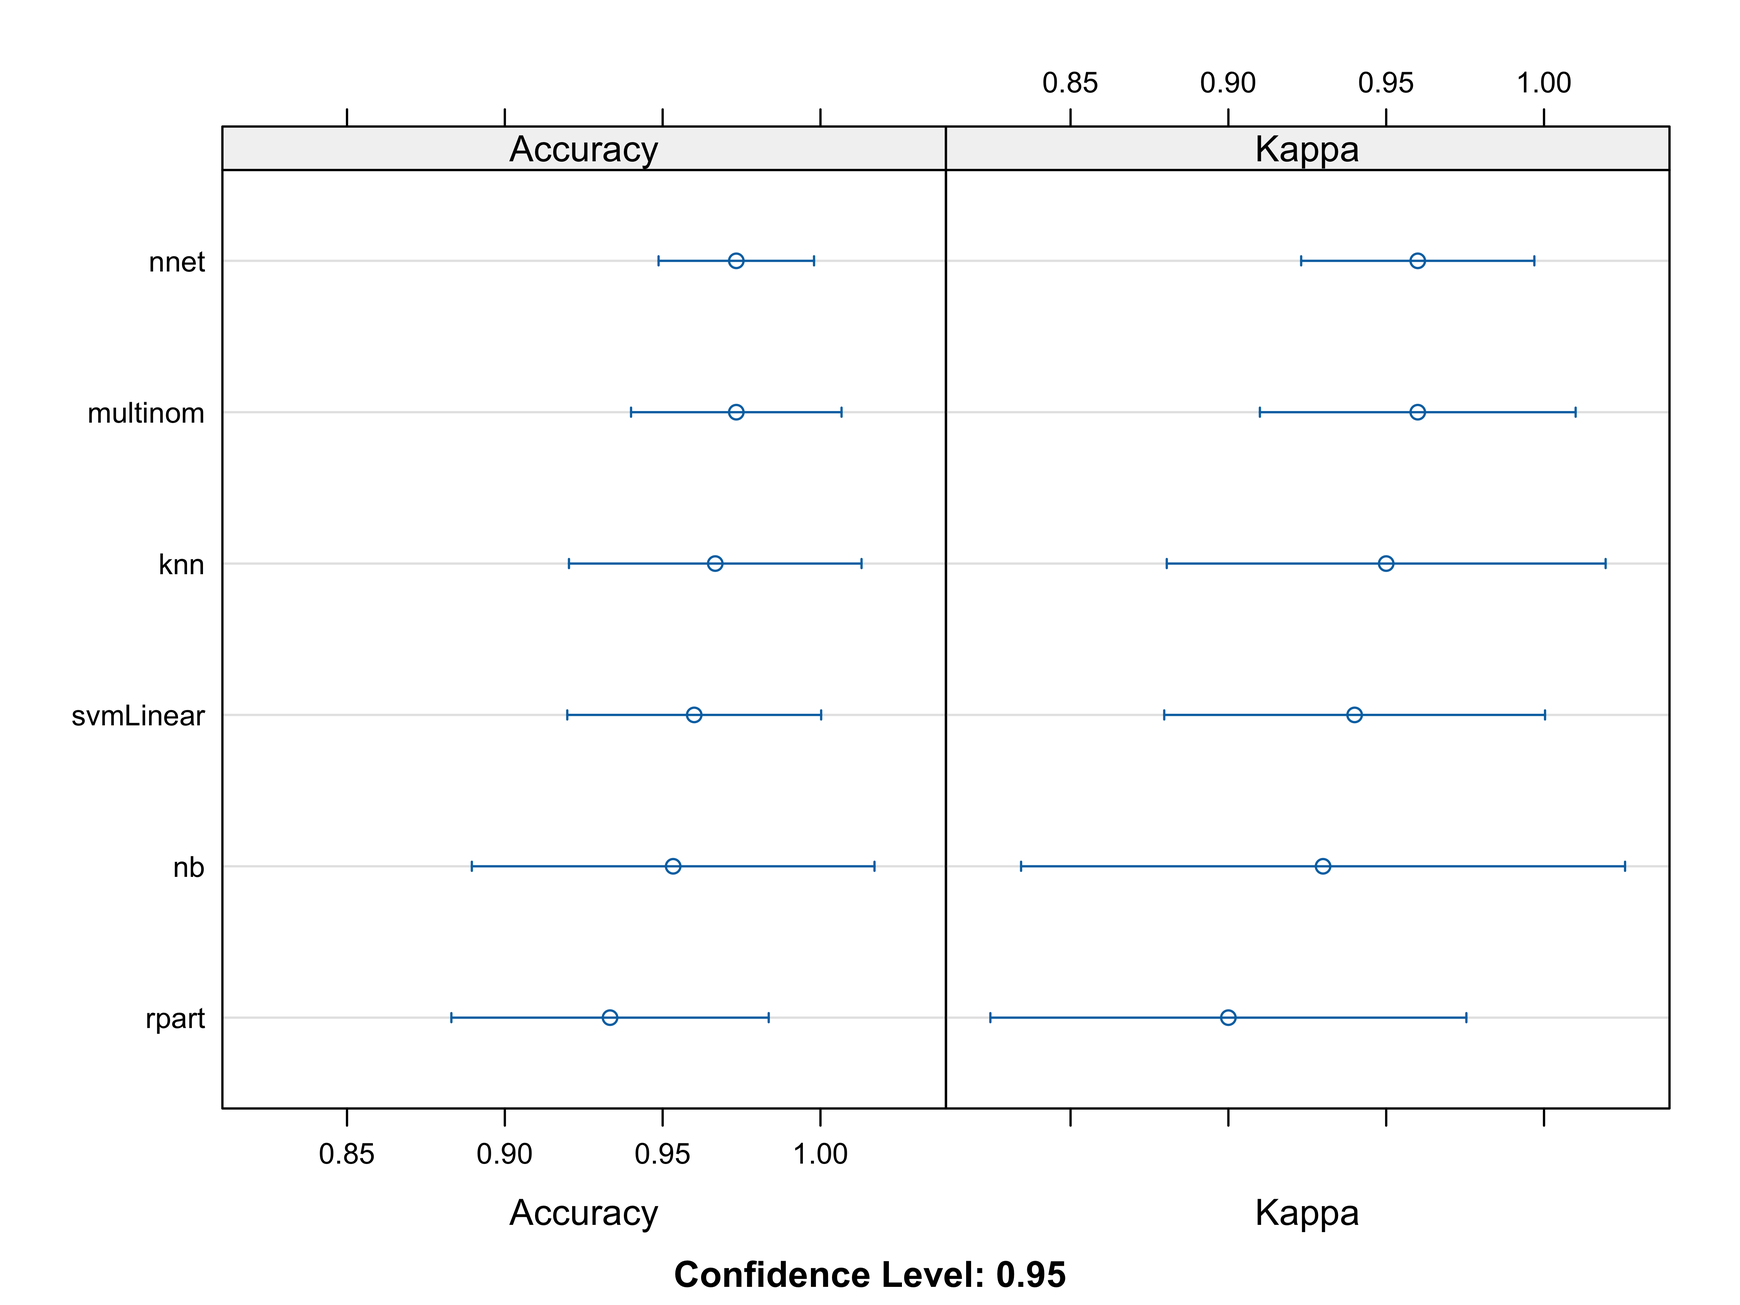
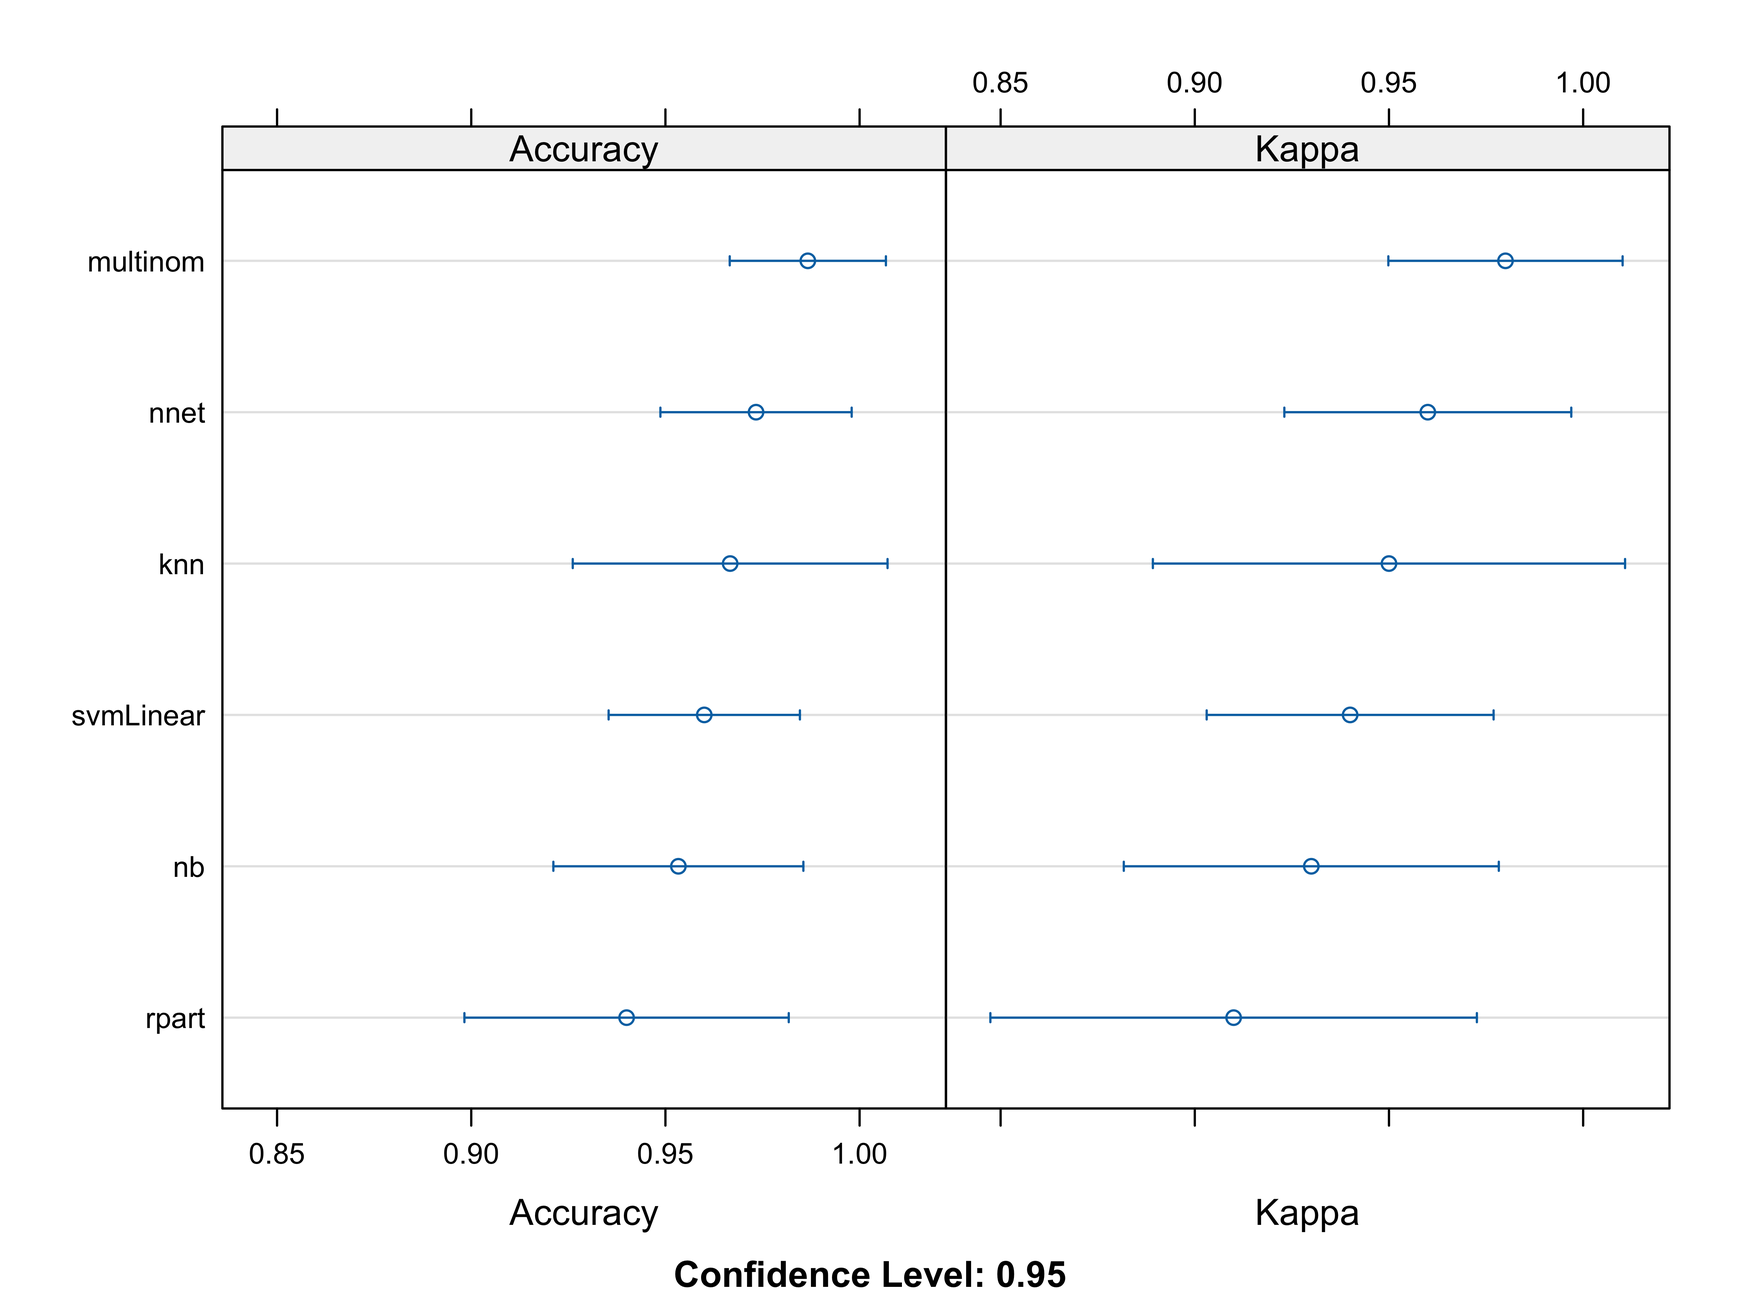
Render

diff --git a/docs/iris.html b/docs/iris.html
@@ -140,7 +140,7 @@ pre > code.sourceCode > span > a:first-child::before { text-decoration: underlin
 
 <section id="introduction" class="level2">
 <h2 class="anchored" data-anchor-id="introduction">Introduction</h2>
-<p>TBA</p>
+<p>We use the <a href="https://www.kaggle.com/datasets/uciml/iris#">Iris Species data set</a> to train and evaluate different machine learning models. This labled data set contains 150 observations of iris flowers with the following features: <code>Sepal.Length</code>, <code>Sepal.Width</code>, <code>Petal.Length</code>, and <code>Petal.Width</code>.</p>
 </section>
 <section id="load-libraries" class="level2">
 <h2 class="anchored" data-anchor-id="load-libraries">Load libraries</h2>
@@ -154,47 +154,34 @@ pre > code.sourceCode > span > a:first-child::before { text-decoration: underlin
 <section id="load-iris-data-set" class="level2">
 <h2 class="anchored" data-anchor-id="load-iris-data-set">Load iris data set</h2>
 <div class="cell">
-<div class="sourceCode cell-code" id="cb2"><pre class="sourceCode r code-with-copy"><code class="sourceCode r"><span id="cb2-1"><a href="#cb2-1" aria-hidden="true" tabindex="-1"></a><span class="fu">data</span>(iris)</span>
-<span id="cb2-2"><a href="#cb2-2" aria-hidden="true" tabindex="-1"></a><span class="fu">head</span>(iris)</span></code><button title="Copy to Clipboard" class="code-copy-button"><i class="bi"></i></button></pre></div>
-<div class="cell-output cell-output-stdout">
-<pre><code>  Sepal.Length Sepal.Width Petal.Length Petal.Width Species
-1          5.1         3.5          1.4         0.2  setosa
-2          4.9         3.0          1.4         0.2  setosa
-3          4.7         3.2          1.3         0.2  setosa
-4          4.6         3.1          1.5         0.2  setosa
-5          5.0         3.6          1.4         0.2  setosa
-6          5.4         3.9          1.7         0.4  setosa</code></pre>
-</div>
+<div class="sourceCode cell-code" id="cb2"><pre class="sourceCode r code-with-copy"><code class="sourceCode r"><span id="cb2-1"><a href="#cb2-1" aria-hidden="true" tabindex="-1"></a><span class="fu">data</span>(iris)</span></code><button title="Copy to Clipboard" class="code-copy-button"><i class="bi"></i></button></pre></div>
 </div>
 </section>
 <section id="visualize-features" class="level2">
 <h2 class="anchored" data-anchor-id="visualize-features">Visualize features</h2>
 <div class="cell">
-<div class="sourceCode cell-code" id="cb4"><pre class="sourceCode r code-with-copy"><code class="sourceCode r"><span id="cb4-1"><a href="#cb4-1" aria-hidden="true" tabindex="-1"></a><span class="fu">featurePlot</span>(</span>
-<span id="cb4-2"><a href="#cb4-2" aria-hidden="true" tabindex="-1"></a>  <span class="at">x =</span> iris[, <span class="dv">1</span><span class="sc">:</span><span class="dv">4</span>], </span>
-<span id="cb4-3"><a href="#cb4-3" aria-hidden="true" tabindex="-1"></a>  <span class="at">y =</span> iris<span class="sc">$</span>Species, </span>
-<span id="cb4-4"><a href="#cb4-4" aria-hidden="true" tabindex="-1"></a>  <span class="at">plot =</span> <span class="st">"pairs"</span>,</span>
-<span id="cb4-5"><a href="#cb4-5" aria-hidden="true" tabindex="-1"></a>  <span class="do">## Add a key at the top</span></span>
-<span id="cb4-6"><a href="#cb4-6" aria-hidden="true" tabindex="-1"></a>  <span class="at">auto.key =</span> <span class="fu">list</span>(<span class="at">columns =</span> <span class="dv">3</span>))</span></code><button title="Copy to Clipboard" class="code-copy-button"><i class="bi"></i></button></pre></div>
+<div class="sourceCode cell-code" id="cb3"><pre class="sourceCode r code-with-copy"><code class="sourceCode r"><span id="cb3-1"><a href="#cb3-1" aria-hidden="true" tabindex="-1"></a><span class="fu">featurePlot</span>(</span>
+<span id="cb3-2"><a href="#cb3-2" aria-hidden="true" tabindex="-1"></a>  <span class="at">x =</span> iris[, <span class="dv">1</span><span class="sc">:</span><span class="dv">4</span>], </span>
+<span id="cb3-3"><a href="#cb3-3" aria-hidden="true" tabindex="-1"></a>  <span class="at">y =</span> iris<span class="sc">$</span>Species, </span>
+<span id="cb3-4"><a href="#cb3-4" aria-hidden="true" tabindex="-1"></a>  <span class="at">plot =</span> <span class="st">"pairs"</span>,</span>
+<span id="cb3-5"><a href="#cb3-5" aria-hidden="true" tabindex="-1"></a>  <span class="do">## Add a key at the top</span></span>
+<span id="cb3-6"><a href="#cb3-6" aria-hidden="true" tabindex="-1"></a>  <span class="at">auto.key =</span> <span class="fu">list</span>(<span class="at">columns =</span> <span class="dv">3</span>))</span></code><button title="Copy to Clipboard" class="code-copy-button"><i class="bi"></i></button></pre></div>
 <div class="cell-output-display">
 <p><img src="iris_files/figure-html/unnamed-chunk-3-1.png" class="img-fluid" width="2400"></p>
 </div>
 </div>
 <div class="cell">
-<div class="sourceCode cell-code" id="cb5"><pre class="sourceCode r code-with-copy"><code class="sourceCode r"><span id="cb5-1"><a href="#cb5-1" aria-hidden="true" tabindex="-1"></a><span class="fu">featurePlot</span>(</span>
-<span id="cb5-2"><a href="#cb5-2" aria-hidden="true" tabindex="-1"></a>  </span>
-<span id="cb5-3"><a href="#cb5-3" aria-hidden="true" tabindex="-1"></a>  <span class="at">x =</span> iris[, <span class="dv">1</span><span class="sc">:</span><span class="dv">4</span>], </span>
-<span id="cb5-4"><a href="#cb5-4" aria-hidden="true" tabindex="-1"></a>  <span class="at">y =</span> iris<span class="sc">$</span>Species,</span>
-<span id="cb5-5"><a href="#cb5-5" aria-hidden="true" tabindex="-1"></a>  <span class="at">plot =</span> <span class="st">"density"</span>, </span>
-<span id="cb5-6"><a href="#cb5-6" aria-hidden="true" tabindex="-1"></a>  <span class="do">## Pass in options to xyplot() to </span></span>
-<span id="cb5-7"><a href="#cb5-7" aria-hidden="true" tabindex="-1"></a>  <span class="do">## make it prettier</span></span>
-<span id="cb5-8"><a href="#cb5-8" aria-hidden="true" tabindex="-1"></a>  <span class="at">scales =</span> <span class="fu">list</span>(</span>
-<span id="cb5-9"><a href="#cb5-9" aria-hidden="true" tabindex="-1"></a>    <span class="at">x =</span> <span class="fu">list</span>(<span class="at">relation=</span><span class="st">"free"</span>), </span>
-<span id="cb5-10"><a href="#cb5-10" aria-hidden="true" tabindex="-1"></a>    <span class="at">y =</span> <span class="fu">list</span>(<span class="at">relation=</span><span class="st">"free"</span>)), </span>
-<span id="cb5-11"><a href="#cb5-11" aria-hidden="true" tabindex="-1"></a>  <span class="at">adjust =</span> <span class="fl">1.5</span>, </span>
-<span id="cb5-12"><a href="#cb5-12" aria-hidden="true" tabindex="-1"></a>  <span class="at">pch =</span> <span class="st">"|"</span>, </span>
-<span id="cb5-13"><a href="#cb5-13" aria-hidden="true" tabindex="-1"></a>  <span class="at">layout =</span> <span class="fu">c</span>(<span class="dv">4</span>, <span class="dv">1</span>), </span>
-<span id="cb5-14"><a href="#cb5-14" aria-hidden="true" tabindex="-1"></a>  <span class="at">auto.key =</span> <span class="fu">list</span>(<span class="at">columns =</span> <span class="dv">3</span>))</span></code><button title="Copy to Clipboard" class="code-copy-button"><i class="bi"></i></button></pre></div>
+<div class="sourceCode cell-code" id="cb4"><pre class="sourceCode r code-with-copy"><code class="sourceCode r"><span id="cb4-1"><a href="#cb4-1" aria-hidden="true" tabindex="-1"></a><span class="fu">featurePlot</span>(</span>
+<span id="cb4-2"><a href="#cb4-2" aria-hidden="true" tabindex="-1"></a>  <span class="at">x =</span> iris[, <span class="dv">1</span><span class="sc">:</span><span class="dv">4</span>], </span>
+<span id="cb4-3"><a href="#cb4-3" aria-hidden="true" tabindex="-1"></a>  <span class="at">y =</span> iris<span class="sc">$</span>Species,</span>
+<span id="cb4-4"><a href="#cb4-4" aria-hidden="true" tabindex="-1"></a>  <span class="at">plot =</span> <span class="st">"density"</span>, </span>
+<span id="cb4-5"><a href="#cb4-5" aria-hidden="true" tabindex="-1"></a>  <span class="at">scales =</span> <span class="fu">list</span>(</span>
+<span id="cb4-6"><a href="#cb4-6" aria-hidden="true" tabindex="-1"></a>    <span class="at">x =</span> <span class="fu">list</span>(<span class="at">relation=</span><span class="st">"free"</span>), </span>
+<span id="cb4-7"><a href="#cb4-7" aria-hidden="true" tabindex="-1"></a>    <span class="at">y =</span> <span class="fu">list</span>(<span class="at">relation=</span><span class="st">"free"</span>)), </span>
+<span id="cb4-8"><a href="#cb4-8" aria-hidden="true" tabindex="-1"></a>  <span class="at">adjust =</span> <span class="fl">1.5</span>, </span>
+<span id="cb4-9"><a href="#cb4-9" aria-hidden="true" tabindex="-1"></a>  <span class="at">pch =</span> <span class="st">"|"</span>, </span>
+<span id="cb4-10"><a href="#cb4-10" aria-hidden="true" tabindex="-1"></a>  <span class="at">layout =</span> <span class="fu">c</span>(<span class="dv">4</span>, <span class="dv">1</span>), </span>
+<span id="cb4-11"><a href="#cb4-11" aria-hidden="true" tabindex="-1"></a>  <span class="at">auto.key =</span> <span class="fu">list</span>(<span class="at">columns =</span> <span class="dv">3</span>))</span></code><button title="Copy to Clipboard" class="code-copy-button"><i class="bi"></i></button></pre></div>
 <div class="cell-output-display">
 <p><img src="iris_files/figure-html/unnamed-chunk-4-1.png" class="img-fluid" width="2400"></p>
 </div>
@@ -205,25 +192,34 @@ pre > code.sourceCode > span > a:first-child::before { text-decoration: underlin
 <p>For model avilidation we use a 10-fold <a href="https://en.wikipedia.org/wiki/Cross-validation_(statistics)">cross validation</a> approach. <code>trainControl</code> setup all computational nuances that we need to train the model.</p>
 <p><code>Species ~ .</code> means that we use all features to predict the target variable. In our case, this would be equal to <code>Species ~ Sepal.Length + Sepal.Width + Petal.Length + Petal.Width</code>.</p>
 <p>Since we have categorical target values (the three different species), we should use models for classification tasks.</p>
-<p>We use the following models: - <code>multinom</code>: Multinomial Logistic Regression - <code>rpart</code>: Decision Tree - <code>nnet</code>: Neural Network - <code>svmLinear</code>: Support Vector Machine - <code>knn</code>: K-Nearest Neighbors - <code>nb</code>: Naive Bayes</p>
+<p>We use the following models:</p>
+<ul>
+<li><code>multinom</code>: Multinomial Logistic Regression</li>
+<li><code>rpart</code>: Decision Tree</li>
+<li><code>nnet</code>: Neural Network</li>
+<li><code>svmLinear</code>: Support Vector Machine</li>
+<li><code>knn</code>: K-Nearest Neighbors</li>
+<li><code>nb</code>: Naive Bayes</li>
+</ul>
 <div class="cell">
-<div class="sourceCode cell-code" id="cb6"><pre class="sourceCode r code-with-copy"><code class="sourceCode r"><span id="cb6-1"><a href="#cb6-1" aria-hidden="true" tabindex="-1"></a>metric <span class="ot">&lt;-</span> <span class="st">"Accuracy"</span> </span>
-<span id="cb6-2"><a href="#cb6-2" aria-hidden="true" tabindex="-1"></a>K_FOLD_CROSS_VALIDATION <span class="ot">&lt;-</span> <span class="st">'cv'</span></span>
-<span id="cb6-3"><a href="#cb6-3" aria-hidden="true" tabindex="-1"></a>train_control <span class="ot">&lt;-</span> <span class="fu">trainControl</span>(<span class="at">method =</span> K_FOLD_CROSS_VALIDATION, <span class="at">number =</span> <span class="dv">10</span>)</span>
-<span id="cb6-4"><a href="#cb6-4" aria-hidden="true" tabindex="-1"></a>methods <span class="ot">&lt;-</span> <span class="fu">c</span>(<span class="st">'multinom'</span>, <span class="st">'rpart'</span>, <span class="st">'nnet'</span>, <span class="st">'svmLinear'</span>, <span class="st">'knn'</span>, <span class="st">'nb'</span>)</span>
-<span id="cb6-5"><a href="#cb6-5" aria-hidden="true" tabindex="-1"></a></span>
-<span id="cb6-6"><a href="#cb6-6" aria-hidden="true" tabindex="-1"></a>fits <span class="ot">&lt;-</span> <span class="fu">list</span>()</span>
-<span id="cb6-7"><a href="#cb6-7" aria-hidden="true" tabindex="-1"></a><span class="cf">for</span> (method <span class="cf">in</span> methods) {</span>
-<span id="cb6-8"><a href="#cb6-8" aria-hidden="true" tabindex="-1"></a>  m <span class="ot">&lt;-</span> <span class="fu">train</span>(Species <span class="sc">~</span> ., <span class="at">data =</span> iris, <span class="at">method =</span> method, <span class="at">metric=</span>metric, <span class="at">trControl =</span> train_control)</span>
-<span id="cb6-9"><a href="#cb6-9" aria-hidden="true" tabindex="-1"></a>  fits[[method]] <span class="ot">&lt;-</span> m</span>
-<span id="cb6-10"><a href="#cb6-10" aria-hidden="true" tabindex="-1"></a>}</span></code><button title="Copy to Clipboard" class="code-copy-button"><i class="bi"></i></button></pre></div>
+<div class="sourceCode cell-code" id="cb5"><pre class="sourceCode r code-with-copy"><code class="sourceCode r"><span id="cb5-1"><a href="#cb5-1" aria-hidden="true" tabindex="-1"></a>metric <span class="ot">&lt;-</span> <span class="st">"Accuracy"</span> </span>
+<span id="cb5-2"><a href="#cb5-2" aria-hidden="true" tabindex="-1"></a>K_FOLD_CROSS_VALIDATION <span class="ot">&lt;-</span> <span class="st">'cv'</span></span>
+<span id="cb5-3"><a href="#cb5-3" aria-hidden="true" tabindex="-1"></a>ctrl <span class="ot">&lt;-</span> <span class="fu">trainControl</span>(<span class="at">method =</span> K_FOLD_CROSS_VALIDATION, <span class="at">number =</span> <span class="dv">10</span>)</span>
+<span id="cb5-4"><a href="#cb5-4" aria-hidden="true" tabindex="-1"></a></span>
+<span id="cb5-5"><a href="#cb5-5" aria-hidden="true" tabindex="-1"></a>methods <span class="ot">&lt;-</span> <span class="fu">c</span>(<span class="st">'multinom'</span>, <span class="st">'rpart'</span>, <span class="st">'nnet'</span>, <span class="st">'svmLinear'</span>, <span class="st">'knn'</span>, <span class="st">'nb'</span>)</span>
+<span id="cb5-6"><a href="#cb5-6" aria-hidden="true" tabindex="-1"></a></span>
+<span id="cb5-7"><a href="#cb5-7" aria-hidden="true" tabindex="-1"></a>fits <span class="ot">&lt;-</span> <span class="fu">list</span>()</span>
+<span id="cb5-8"><a href="#cb5-8" aria-hidden="true" tabindex="-1"></a><span class="cf">for</span> (method <span class="cf">in</span> methods) {</span>
+<span id="cb5-9"><a href="#cb5-9" aria-hidden="true" tabindex="-1"></a>  m <span class="ot">&lt;-</span> <span class="fu">train</span>(Species <span class="sc">~</span> ., <span class="at">data =</span> iris, <span class="at">method =</span> method, <span class="at">metric=</span>metric, <span class="at">trControl =</span> ctrl)</span>
+<span id="cb5-10"><a href="#cb5-10" aria-hidden="true" tabindex="-1"></a>  fits[[method]] <span class="ot">&lt;-</span> m</span>
+<span id="cb5-11"><a href="#cb5-11" aria-hidden="true" tabindex="-1"></a>}</span></code><button title="Copy to Clipboard" class="code-copy-button"><i class="bi"></i></button></pre></div>
 </div>
 </section>
 <section id="compare-models" class="level2">
 <h2 class="anchored" data-anchor-id="compare-models">Compare models</h2>
 <div class="cell">
-<div class="sourceCode cell-code" id="cb7"><pre class="sourceCode r code-with-copy"><code class="sourceCode r"><span id="cb7-1"><a href="#cb7-1" aria-hidden="true" tabindex="-1"></a>res <span class="ot">&lt;-</span> <span class="fu">resamples</span>(fits)</span>
-<span id="cb7-2"><a href="#cb7-2" aria-hidden="true" tabindex="-1"></a><span class="fu">summary</span>(res)</span></code><button title="Copy to Clipboard" class="code-copy-button"><i class="bi"></i></button></pre></div>
+<div class="sourceCode cell-code" id="cb6"><pre class="sourceCode r code-with-copy"><code class="sourceCode r"><span id="cb6-1"><a href="#cb6-1" aria-hidden="true" tabindex="-1"></a>res <span class="ot">&lt;-</span> <span class="fu">resamples</span>(fits)</span>
+<span id="cb6-2"><a href="#cb6-2" aria-hidden="true" tabindex="-1"></a><span class="fu">summary</span>(res)</span></code><button title="Copy to Clipboard" class="code-copy-button"><i class="bi"></i></button></pre></div>
 <div class="cell-output cell-output-stdout">
 <pre><code>
 Call:
@@ -234,36 +230,36 @@ Number of resamples: 10
 
 Accuracy 
                Min.   1st Qu.    Median      Mean 3rd Qu. Max. NA's
-multinom  0.8666667 0.9500000 1.0000000 0.9733333       1    1    0
-rpart     0.8000000 0.8833333 0.9333333 0.9333333       1    1    0
+multinom  0.9333333 1.0000000 1.0000000 0.9866667       1    1    0
+rpart     0.8666667 0.8833333 0.9333333 0.9400000       1    1    0
 nnet      0.9333333 0.9333333 1.0000000 0.9733333       1    1    0
-svmLinear 0.8666667 0.9333333 1.0000000 0.9600000       1    1    0
-knn       0.8000000 0.9500000 1.0000000 0.9666667       1    1    0
-nb        0.7333333 0.9500000 1.0000000 0.9533333       1    1    0
+svmLinear 0.9333333 0.9333333 0.9333333 0.9600000       1    1    0
+knn       0.8666667 0.9500000 1.0000000 0.9666667       1    1    0
+nb        0.8666667 0.9333333 0.9333333 0.9533333       1    1    0
 
 Kappa 
           Min. 1st Qu. Median Mean 3rd Qu. Max. NA's
-multinom   0.8   0.925    1.0 0.96       1    1    0
-rpart      0.7   0.825    0.9 0.90       1    1    0
+multinom   0.9   1.000    1.0 0.98       1    1    0
+rpart      0.8   0.825    0.9 0.91       1    1    0
 nnet       0.9   0.900    1.0 0.96       1    1    0
-svmLinear  0.8   0.900    1.0 0.94       1    1    0
-knn        0.7   0.925    1.0 0.95       1    1    0
-nb         0.6   0.925    1.0 0.93       1    1    0</code></pre>
+svmLinear  0.9   0.900    0.9 0.94       1    1    0
+knn        0.8   0.925    1.0 0.95       1    1    0
+nb         0.8   0.900    0.9 0.93       1    1    0</code></pre>
 </div>
 </div>
 <div class="cell">
-<div class="sourceCode cell-code" id="cb9"><pre class="sourceCode r code-with-copy"><code class="sourceCode r"><span id="cb9-1"><a href="#cb9-1" aria-hidden="true" tabindex="-1"></a><span class="fu">dotplot</span>(res)</span></code><button title="Copy to Clipboard" class="code-copy-button"><i class="bi"></i></button></pre></div>
+<div class="sourceCode cell-code" id="cb8"><pre class="sourceCode r code-with-copy"><code class="sourceCode r"><span id="cb8-1"><a href="#cb8-1" aria-hidden="true" tabindex="-1"></a><span class="fu">dotplot</span>(res)</span></code><button title="Copy to Clipboard" class="code-copy-button"><i class="bi"></i></button></pre></div>
 <div class="cell-output-display">
 <p><img src="iris_files/figure-html/unnamed-chunk-7-1.png" class="img-fluid" width="2400"></p>
 </div>
 </div>
-<p>The figure above shows the accuracy of the different models. The Kappa value represent the agreement between the predicted and the observed values.</p>
+<p>The figure above shows the accuracy of the different models. The Kappa value represent the agreement between the predicted and the observed values. Of all models, the neural network has a high accuracy and kappa value. However, the other models are not far behind. Further analysis and consideration of more metrics could help to find the best model.</p>
 </section>
 <section id="visualize-decision-tree" class="level2">
 <h2 class="anchored" data-anchor-id="visualize-decision-tree">Visualize decision tree</h2>
-<p>The decision tree can be visualized very easily, which allows an understanding of the underlying decision process.</p>
+<p>Of the diffrent models, the decision tree can be visualized very easily, which allows an understanding of the underlying decision process.</p>
 <div class="cell">
-<div class="sourceCode cell-code" id="cb10"><pre class="sourceCode r code-with-copy"><code class="sourceCode r"><span id="cb10-1"><a href="#cb10-1" aria-hidden="true" tabindex="-1"></a><span class="fu">fancyRpartPlot</span>(fits<span class="sc">$</span>rpart<span class="sc">$</span>finalModel)</span></code><button title="Copy to Clipboard" class="code-copy-button"><i class="bi"></i></button></pre></div>
+<div class="sourceCode cell-code" id="cb9"><pre class="sourceCode r code-with-copy"><code class="sourceCode r"><span id="cb9-1"><a href="#cb9-1" aria-hidden="true" tabindex="-1"></a><span class="fu">fancyRpartPlot</span>(fits<span class="sc">$</span>rpart<span class="sc">$</span>finalModel)</span></code><button title="Copy to Clipboard" class="code-copy-button"><i class="bi"></i></button></pre></div>
 <div class="cell-output-display">
 <p><img src="iris_files/figure-html/unnamed-chunk-8-1.png" class="img-fluid" width="2400"></p>
 </div>
